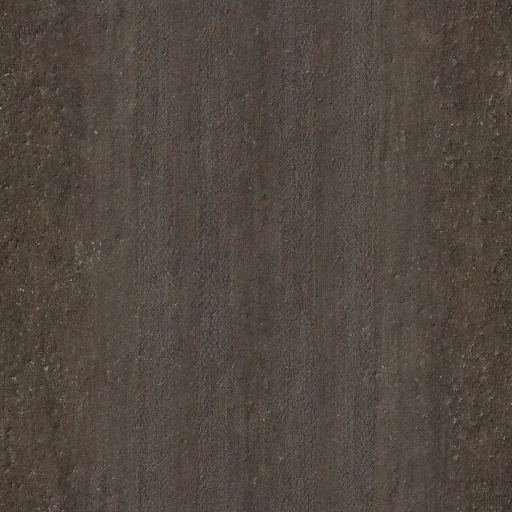
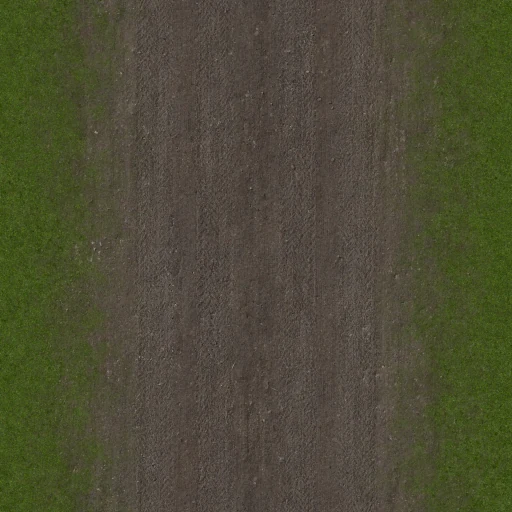
Realistic map: the rest of Streets GL's ground textures the map can use
Pitches, cycleways, wooden piers and tramways now have Streets GL's own
textures (a generic pitch, the cycle lane, planks, rails set in asphalt),
and dirt roads fade into the grass at their edges as Streets GL's do. The
build script lays a texture's overlays onto it, keeping every image opaque.

Left out: the map's tiles don't say which game a pitch is for, what a road
is surfaced with beyond paved or not, or where junctions are, so the
football, basketball and tennis pitches, concrete, sand and wooden roads
and the junction texture would never be drawn; nor would the helipad,
which needs a pad's own outline; fences and walls aren't ground.

Claude-Session: https://claude.ai/code/session_01FtXCmpKuJDQcCftzidD22n

Changed region(s): [[0.0, 0.0, 0.2188, 1.0], [0.8125, 0.0, 1.0, 1.0]]

diff --git a/src/lib/realistic-ground.ts b/src/lib/realistic-ground.ts
@@ -42,15 +42,21 @@ const SURFACES: Record<number, Surface> = {
   13: { texture: "cobblestone", metres: 3, rough: 0.75, snow: 0.5, paved: true },
   // glaciers and ice caps: snow, whatever the weather
   14: { texture: "sand", metres: 10, rough: 0.6, snow: 1 },
+  // a pitch (one for every game: the map doesn't say which), and wooden planks
+  15: { texture: "pitch", metres: 20, rough: 0.9, snow: 1 },
+  16: { texture: "wood", metres: 4, rough: 0.8, snow: 1 },
   // lines: laid along them
   32: { texture: "road", metres: 0, rough: 0.8, snow: 0.5, paved: true },
   33: { texture: "road-unmarked", metres: 0, rough: 0.8, snow: 0.5, paved: true },
   34: { texture: "dirt", metres: 0, rough: 0.95, snow: 1 },
   35: { texture: "railway", metres: 0, rough: 0.8, snow: 0.5 },
+  39: { texture: "tram", metres: 0, rough: 0.8, snow: 0.5, paved: true },
+  40: { texture: "wood", metres: 0, rough: 0.8, snow: 1 },
   // lines with a texture of the world's
   36: { texture: "pavement", metres: 3, rough: 0.8, snow: 0.5, paved: true },
   37: { texture: "asphalt", metres: 6, rough: 0.8, snow: 0.5, paved: true },
   38: { texture: "gravel", metres: 3, rough: 0.9, snow: 1 },
+  41: { texture: "cycleway", metres: 8, rough: 0.8, snow: 0.5, paved: true },
 };
 const FARMLAND = 3;
 const WATER_ID = 11;
@@ -89,7 +95,7 @@ const AREAS: Record<string, RGBA> = {
   industrial: paint(10, [236, 236, 236]),
   railway: paint(12),
   cemetery: paint(1, [228, 236, 222]),
-  pitch: paint(1, [228, 255, 214]),
+  pitch: paint(15),
   athletics: paint(8, [255, 150, 120]),
   playground: paint(6),
   quarry: paint(8, [236, 228, 214]),
@@ -99,7 +105,7 @@ const AREAS: Record<string, RGBA> = {
   taxiway: paint(10, [214, 214, 218]),
   square: paint(13),
   platform: paint(9),
-  pier: paint(36, [196, 150, 112]),
+  pier: paint(16),
   bridge: paint(9),
 };
 
@@ -223,11 +229,11 @@ const ROADS: Record<string, Line> = {
   // the track itself, rails on sleepers, on its ballast
   rail: { width: 2.6, paint: paint(35), edge: 1, edgePaint: BALLAST },
   transit: { width: 2.2, paint: paint(35), edge: 0.6, edgePaint: BALLAST },
-  pier: { width: 3, paint: AREAS.pier, edge: 0, edgePaint: NONE },
+  pier: { width: 3, paint: paint(40), edge: 0, edgePaint: NONE },
 };
 const PATHS: Record<string, Line> = {
   footway: { width: 2, paint: paint(36), edge: 0, edgePaint: NONE },
-  cycleway: { width: 2.5, paint: paint(37, [214, 196, 190]), edge: 0, edgePaint: NONE },
+  cycleway: { width: 2.5, paint: paint(41), edge: 0, edgePaint: NONE },
   pedestrian: { width: 5, paint: paint(36), edge: 0, edgePaint: NONE },
   path: { width: 1.6, paint: paint(38, [236, 226, 206]), edge: 0, edgePaint: NONE },
 };
@@ -236,6 +242,7 @@ const AEROWAYS: Record<string, Line> = {
   runway: { width: 45, paint: paint(37, [180, 180, 186]), edge: 0, edgePaint: NONE },
   taxiway: { width: 18, paint: paint(37, [214, 214, 218]), edge: 0, edgePaint: NONE },
 };
+const TRAM: Line = { width: 2.2, paint: paint(39), edge: 0, edgePaint: NONE };
 const NO_LINE: Line = { width: 0, paint: NONE, edge: 0, edgePaint: NONE };
 
 /** How a line is drawn on the ground: a road, railway, path, river or runway (tunnels and ferries not at all). */
@@ -245,6 +252,8 @@ export function lineOf({ properties: p }: Feature): Line {
     case "transportation":
       if (p.brunnel === "tunnel" || cls === "ferry" || cls.endsWith("_construction")) return NO_LINE;
       if (cls === "path") return PATHS[sub] ?? PATHS[sub === "steps" || sub === "platform" ? "footway" : "path"];
+      // a tram's rails are set in the street; light rail runs on its own ballast, as a railway
+      if (cls === "transit" && sub === "tram") return TRAM;
       return ROADS[cls] ?? NO_LINE;
     case "waterway": {
       if (p.brunnel === "tunnel") return NO_LINE;

diff --git a/src/lib/realistic.test.ts b/src/lib/realistic.test.ts
@@ -158,5 +158,11 @@ describe("realistic map: the ground", () => {
     expect(lineOf(f({ layerName: "transportation", class: "ferry" })).width).toBe(0);
     expect(lineOf(f({ layerName: "transportation", class: "path", subclass: "footway" })).width).toBe(2);
     expect(surface(lineOf(f({ layerName: "waterway", class: "river" })).paint)).toBe(11);
+    // trams' rails in the street, light rail on ballast; piers of planks; cycleways and pitches their own
+    expect(surface(lineOf(f({ layerName: "transportation", class: "transit", subclass: "tram" })).paint)).toBe(39);
+    expect(surface(lineOf(f({ layerName: "transportation", class: "transit", subclass: "light_rail" })).edgePaint)).toBe(38);
+    expect(surface(lineOf(f({ layerName: "transportation", class: "pier" })).paint)).toBe(40);
+    expect(surface(lineOf(f({ layerName: "transportation", class: "path", subclass: "cycleway" })).paint)).toBe(41);
+    expect(surface(areaPaint(f({ layerName: "landuse", class: "pitch" })))).toBe(15);
   });
 });

diff --git a/src/lib/realistic-textures.ts b/src/lib/realistic-textures.ts
@@ -52,6 +52,10 @@ export const GROUND_TEXTURES = [
   "railway",
   "cobblestone",
   "dirt",
+  "pitch",
+  "cycleway",
+  "wood",
+  "tram",
 ] as const;
 
 export const textureLayer = {

diff --git a/scripts/realistic-textures.py b/scripts/realistic-textures.py
@@ -69,7 +69,13 @@ GROUND = [
     ("gravel", S + "gravel_diffuse", S + "gravel_normal", S + "gravel_mask", None),
     ("railway", S + "railway_diffuse", S + "railway_normal", S + "railway_mask", None),
     ("cobblestone", S + "cobblestone_diffuse", S + "cobblestone_normal", S + "common_mask", None),
-    ("dirt", S + "dirt_road_diffuse", S + "dirt_road_normal", S + "dirt_road_mask", None),
+    # its edges fade into the grass
+    ("dirt", [S + "grass_diffuse", S + "dirt_road_diffuse"], S + "dirt_road_normal", S + "dirt_road_mask", None),
+    ("pitch", S + "pitch_generic_diffuse", S + "pitch_generic_normal", S + "common_mask", None),
+    ("cycleway", S + "cycleway_diffuse", S + "common_normal", S + "common_mask", None),
+    ("wood", S + "wood_road_diffuse", S + "wood_road_normal", S + "wood_road_mask", None),
+    # a tramway's rails, set in the street
+    ("tram", [S + "asphalt_diffuse", S + "rail_diffuse"], S + "asphalt_normal", S + "common_mask", None),
 ]
 
 
@@ -78,9 +84,19 @@ def load(root: Path, name: str, mode: str, size: int = SIZE) -> Image.Image:
     return image.resize((size, size), Image.LANCZOS) if image.size != (size, size) else image
 
 
+def layered(root: Path, names) -> Image.Image:
+    """A colour: one image, or several laid one over the next (by their alpha), opaque."""
+    if isinstance(names, str):
+        return load(root, names, "RGB")
+    image = load(root, names[0], "RGBA")
+    for over in names[1:]:
+        image = Image.alpha_composite(image, load(root, over, "RGBA"))
+    return image.convert("RGB")
+
+
 def build(root: Path, out: Path, sets, masks: bool) -> None:
     for name, colour, normal, mask, glow in sets:
-        load(root, colour, "RGB").save(out / f"{name}.color.webp", "WEBP", quality=88, method=6)
+        layered(root, colour).save(out / f"{name}.color.webp", "WEBP", quality=88, method=6)
         load(root, normal, "RGB").save(out / f"{name}.normal.webp", "WEBP", quality=90, method=6)
         if not masks:
             continue
